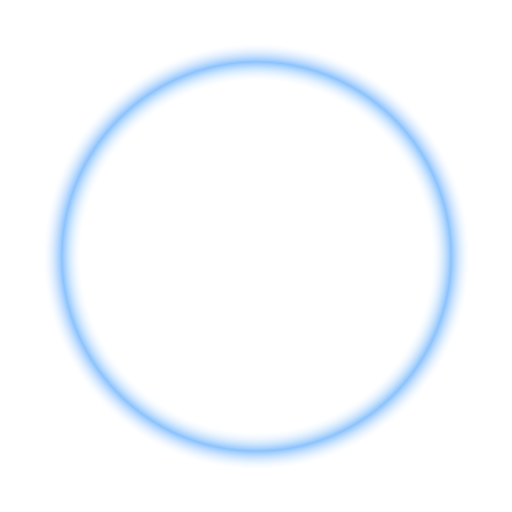
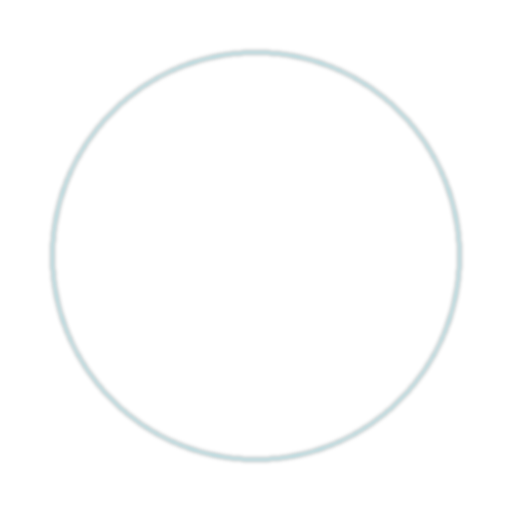
refactor(artwork): update generate_boot_splash.py for 3D Plymouth sprites

Changed region(s): [[0.0938, 0.0938, 0.9062, 0.9062]]

diff --git a/artwork/generate_boot_splash.py b/artwork/generate_boot_splash.py
@@ -3,15 +3,18 @@
 
 The animation is driven by moos.script at boot — it MOVES a few small sprites
 (rotates the energy head around the ring, scales/fades the logo, breathes the
-glow), rather than playing hundreds of pre-baked frames. That keeps the theme a
-few hundred KB instead of tens of MB, so the initramfs stays small and boot
-stays fast. The logo is his 1024px master, never redrawn/recoloured/cropped.
+glow, orbits 3D particles, and expands pulse waves), rather than playing
+hundreds of pre-baked frames. That keeps the theme ~1 MB instead of tens of MB,
+so the initramfs stays small and boot stays fast. The logo is his 1024px master.
 
 Sprites written to system_files/usr/share/plymouth/themes/moos/:
-  logo.png   — the crisp MoOS mark (his master, downscaled to 512)
-  ring.png   — a faint circular track the energy head runs on
-  head.png   — the cyan→violet energy head (a glowing comet blob)
-  glow.png   — a soft ambient bloom that sits behind the mark
+  logo.png     — the crisp MoOS mark (his master, downscaled to 512)
+  ring.png     — primary circular track the energy head runs on
+  ring2.png    — secondary inner orbital ring for 3D parallax depth
+  head.png     — the cyan→violet energy head (a glowing comet blob)
+  glow.png     — a soft ambient bloom that sits behind the mark
+  particle.png — small energy sprite for 3D elliptical particle orbits
+  pulse.png    — radial shockwave ring for periodic pulse waves
 
 Also writes artwork/boot-splash-grid.png (a static preview of the composed look).
 Pure PIL, deterministic.
@@ -65,6 +68,17 @@ def make_ring():
     img.save(THEME / "ring.png")
 
 
+def make_ring2():
+    """Inner secondary ring for 3D parallax depth."""
+    S = 720
+    img = Image.new("RGBA", (S, S), (0, 0, 0, 0))
+    d = ImageDraw.Draw(img)
+    m = S * 0.12
+    d.ellipse([m, m, S - m, S - m], outline=VIOLET + (80,), width=2)
+    img = img.filter(ImageFilter.GaussianBlur(1))
+    img.save(THEME / "ring2.png")
+
+
 def make_head():
     """The energy head: a bright cyan core in a violet halo with a short trailing
     comet tail, so its motion around the ring reads as a comet, not a dot."""
@@ -90,6 +104,32 @@ def make_head():
     img.save(THEME / "head.png")
 
 
+def make_particle():
+    """Small energy particle for 3D elliptical orbits."""
+    S = 64
+    img = Image.new("RGBA", (S, S), (0, 0, 0, 0))
+    d = ImageDraw.Draw(img)
+    cx = cy = S / 2
+    for r in range(int(S * 0.45), 0, -1):
+        t = r / (S * 0.45)
+        col = _lerp((240, 253, 255), CYAN, t)
+        a = int(220 * (1 - t) ** 1.8)
+        d.ellipse([cx - r, cy - r, cx + r, cy + r], fill=col + (a,))
+    img = img.filter(ImageFilter.GaussianBlur(1))
+    img.save(THEME / "particle.png")
+
+
+def make_pulse():
+    """Pulse wave ring for expanding shockwave effect."""
+    S = 512
+    img = Image.new("RGBA", (S, S), (0, 0, 0, 0))
+    d = ImageDraw.Draw(img)
+    m = S * 0.10
+    d.ellipse([m, m, S - m, S - m], outline=CYAN + (120,), width=3)
+    img = img.filter(ImageFilter.GaussianBlur(2))
+    img.save(THEME / "pulse.png")
+
+
 def preview():
     """A static composite so the look can be eyeballed without booting."""
     S = 720
@@ -99,8 +139,9 @@ def preview():
     bg.alpha_composite(glow, (int(S / 2 - glow.width / 2), int(S / 2 - glow.height / 2)))
     ring = Image.open(THEME / "ring.png")
     bg.alpha_composite(ring, (0, 0))
+    ring2 = Image.open(THEME / "ring2.png")
+    bg.alpha_composite(ring2, (0, 0))
     head = Image.open(THEME / "head.png")
-    # place head at top of ring
     hx, hy = S / 2, S * 0.08
     bg.alpha_composite(head, (int(hx - head.width / 2), int(hy - head.height / 2)))
     logo = Image.open(THEME / "logo.png").resize((int(S * 0.36), int(S * 0.36)))
@@ -113,10 +154,13 @@ def render():
     make_logo()
     make_glow()
     make_ring()
+    make_ring2()
     make_head()
+    make_particle()
+    make_pulse()
     preview()
     total = sum(p.stat().st_size for p in THEME.glob("*.png"))
-    print(f"sprites -> {THEME}  (logo, ring, head, glow) total {total/1024:.0f} KiB")
+    print(f"sprites -> {THEME}  (logo, ring, ring2, head, glow, particle, pulse) total {total/1024:.0f} KiB")
     print(f"preview: {ART/'boot-splash-grid.png'}")
 
 
